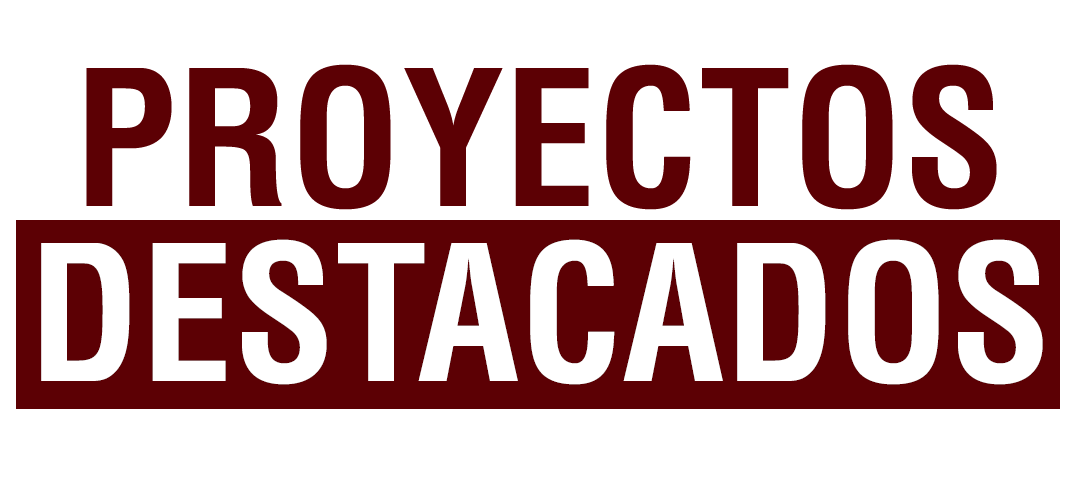
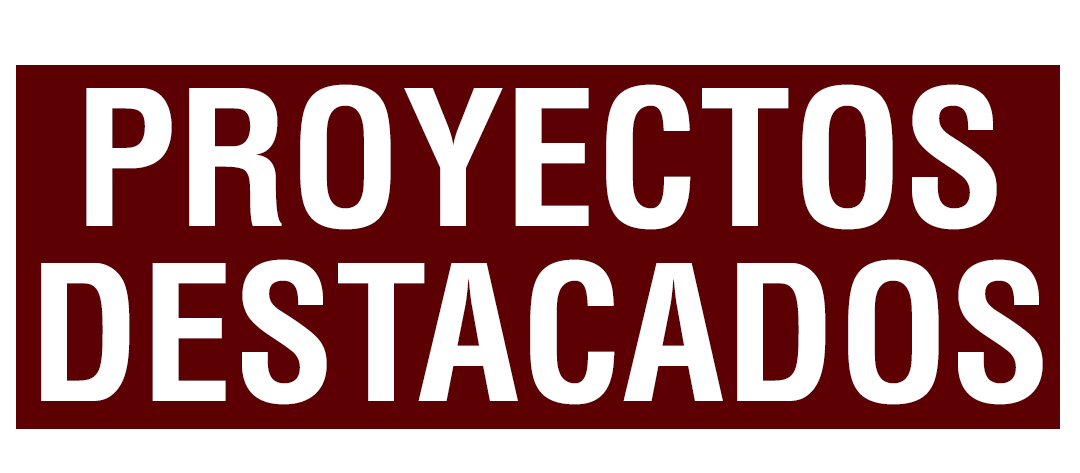
ligeros cambios al diseño

diff --git a/public/css/styles.css b/public/css/styles.css
@@ -5,10 +5,19 @@ body {
   margin: 0;
   padding: 0;
   font-family: "Lato", sans-serif;
+  font-weight: 400;
+  font-style: normal;
   background-color: #121212;
   min-height: 100vh; /* asegura que body ocupe toda la pantalla */
   display: flex;
   flex-direction: column;
+}
+
+h2 {
+  font-family: "Oswald", sans-serif;
+  font-optical-sizing: auto;
+  font-weight: 600;
+  font-style: normal;
 }
 
 main {
